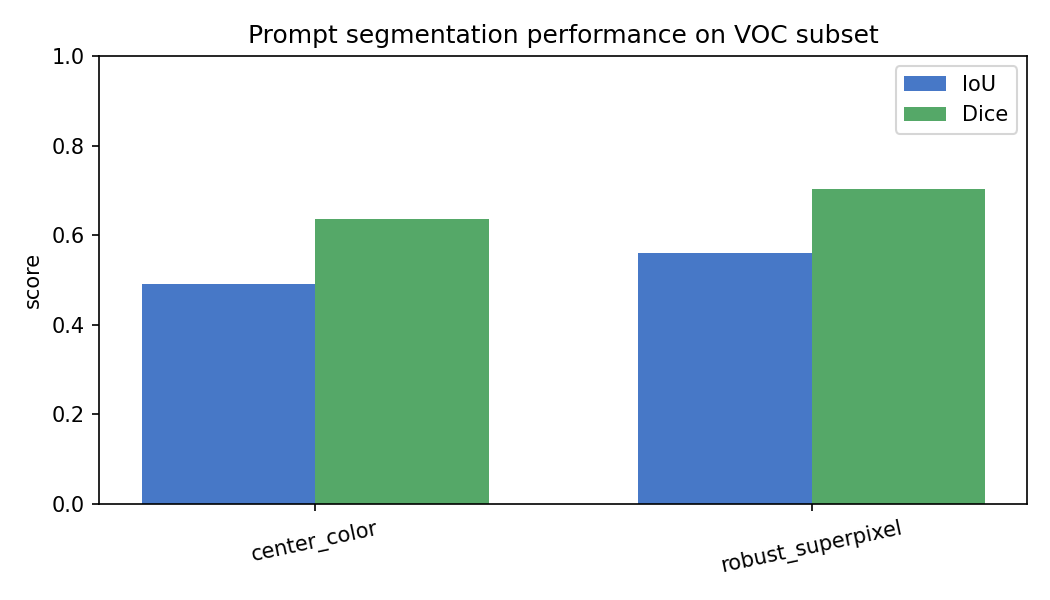
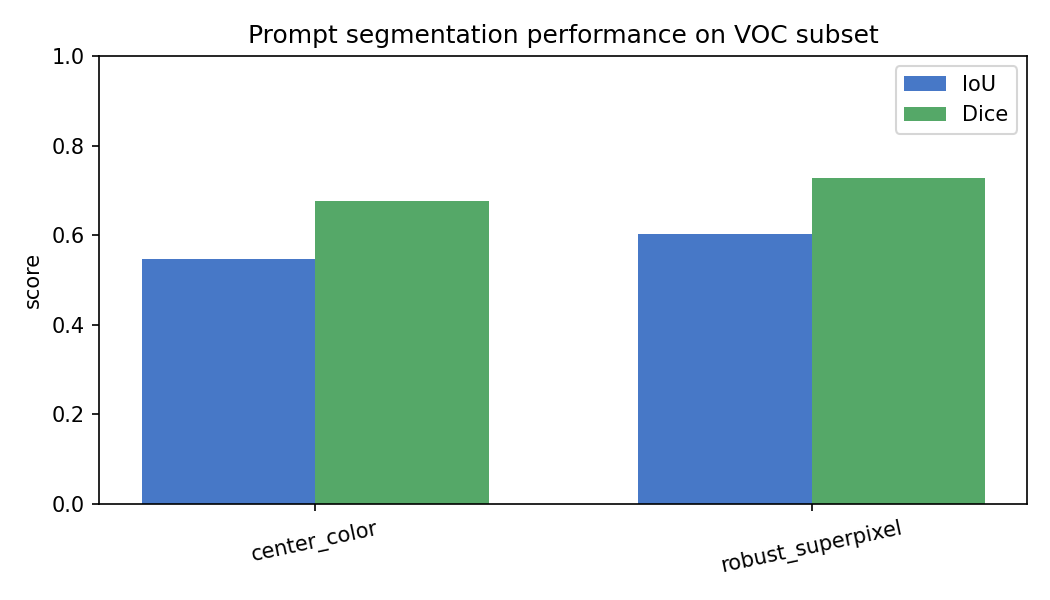
Expand VOC evaluation to 30 samples

diff --git a/reports/report.md b/reports/report.md
@@ -40,20 +40,20 @@ Metrics:
 Commands:
 
 ```bash
-python scripts/download_voc_subset.py --count 12
-python scripts/run_experiment.py --data-dir data/voc_subset --output-dir outputs --max-samples 12
+python scripts/download_voc_subset.py --count 30
+python scripts/run_experiment.py --data-dir data/voc_subset --output-dir outputs --max-samples 30
 ```
 
 ## 4. Results
 
-The experiment was run on 12 VOC 2012 validation samples. Aggregate results are stored in `outputs/summary.json`, and per-sample results are stored in `outputs/metrics.csv`.
+The experiment was run on 30 VOC 2012 validation samples. Aggregate results are stored in `outputs/summary.json`, and per-sample results are stored in `outputs/metrics.csv`.
 
 | Method | Mean IoU | Std IoU | Mean Dice | Std Dice |
 | --- | ---: | ---: | ---: | ---: |
-| Center-color baseline | 0.4913 | 0.1983 | 0.6360 | 0.1730 |
-| Robust superpixel | 0.5595 | 0.1693 | 0.7023 | 0.1418 |
+| Center-color baseline | 0.5468 | 0.2323 | 0.6754 | 0.2122 |
+| Robust superpixel | 0.6031 | 0.2111 | 0.7277 | 0.1895 |
 
-The robust superpixel method improves mean IoU by 0.0683 absolute points over the center-color baseline and improves mean Dice by 0.0663. The lower standard deviation also suggests that the method is less sensitive to difficult images where the center color is not representative of the whole object.
+The robust superpixel method improves mean IoU by 0.0562 absolute points over the center-color baseline and improves mean Dice by 0.0523. The lower standard deviation also suggests that the method is less sensitive to difficult images where the center color is not representative of the whole object.
 
 The qualitative figures in `outputs/figures/` compare the original prompt, the ground-truth target, and the predictions of both methods. The summary bar chart is saved as `outputs/figures/metric_summary.png`.
 

diff --git a/README.md b/README.md
@@ -26,13 +26,13 @@ python -m pip install -r requirements.txt
 Download a compact PASCAL VOC 2012 validation subset:
 
 ```powershell
-python scripts/download_voc_subset.py --count 12
+python scripts/download_voc_subset.py --count 30
 ```
 
 Run the experiment:
 
 ```powershell
-python scripts/run_experiment.py --data-dir data/voc_subset --output-dir outputs --max-samples 12
+python scripts/run_experiment.py --data-dir data/voc_subset --output-dir outputs --max-samples 30
 ```
 
 The main outputs are:
